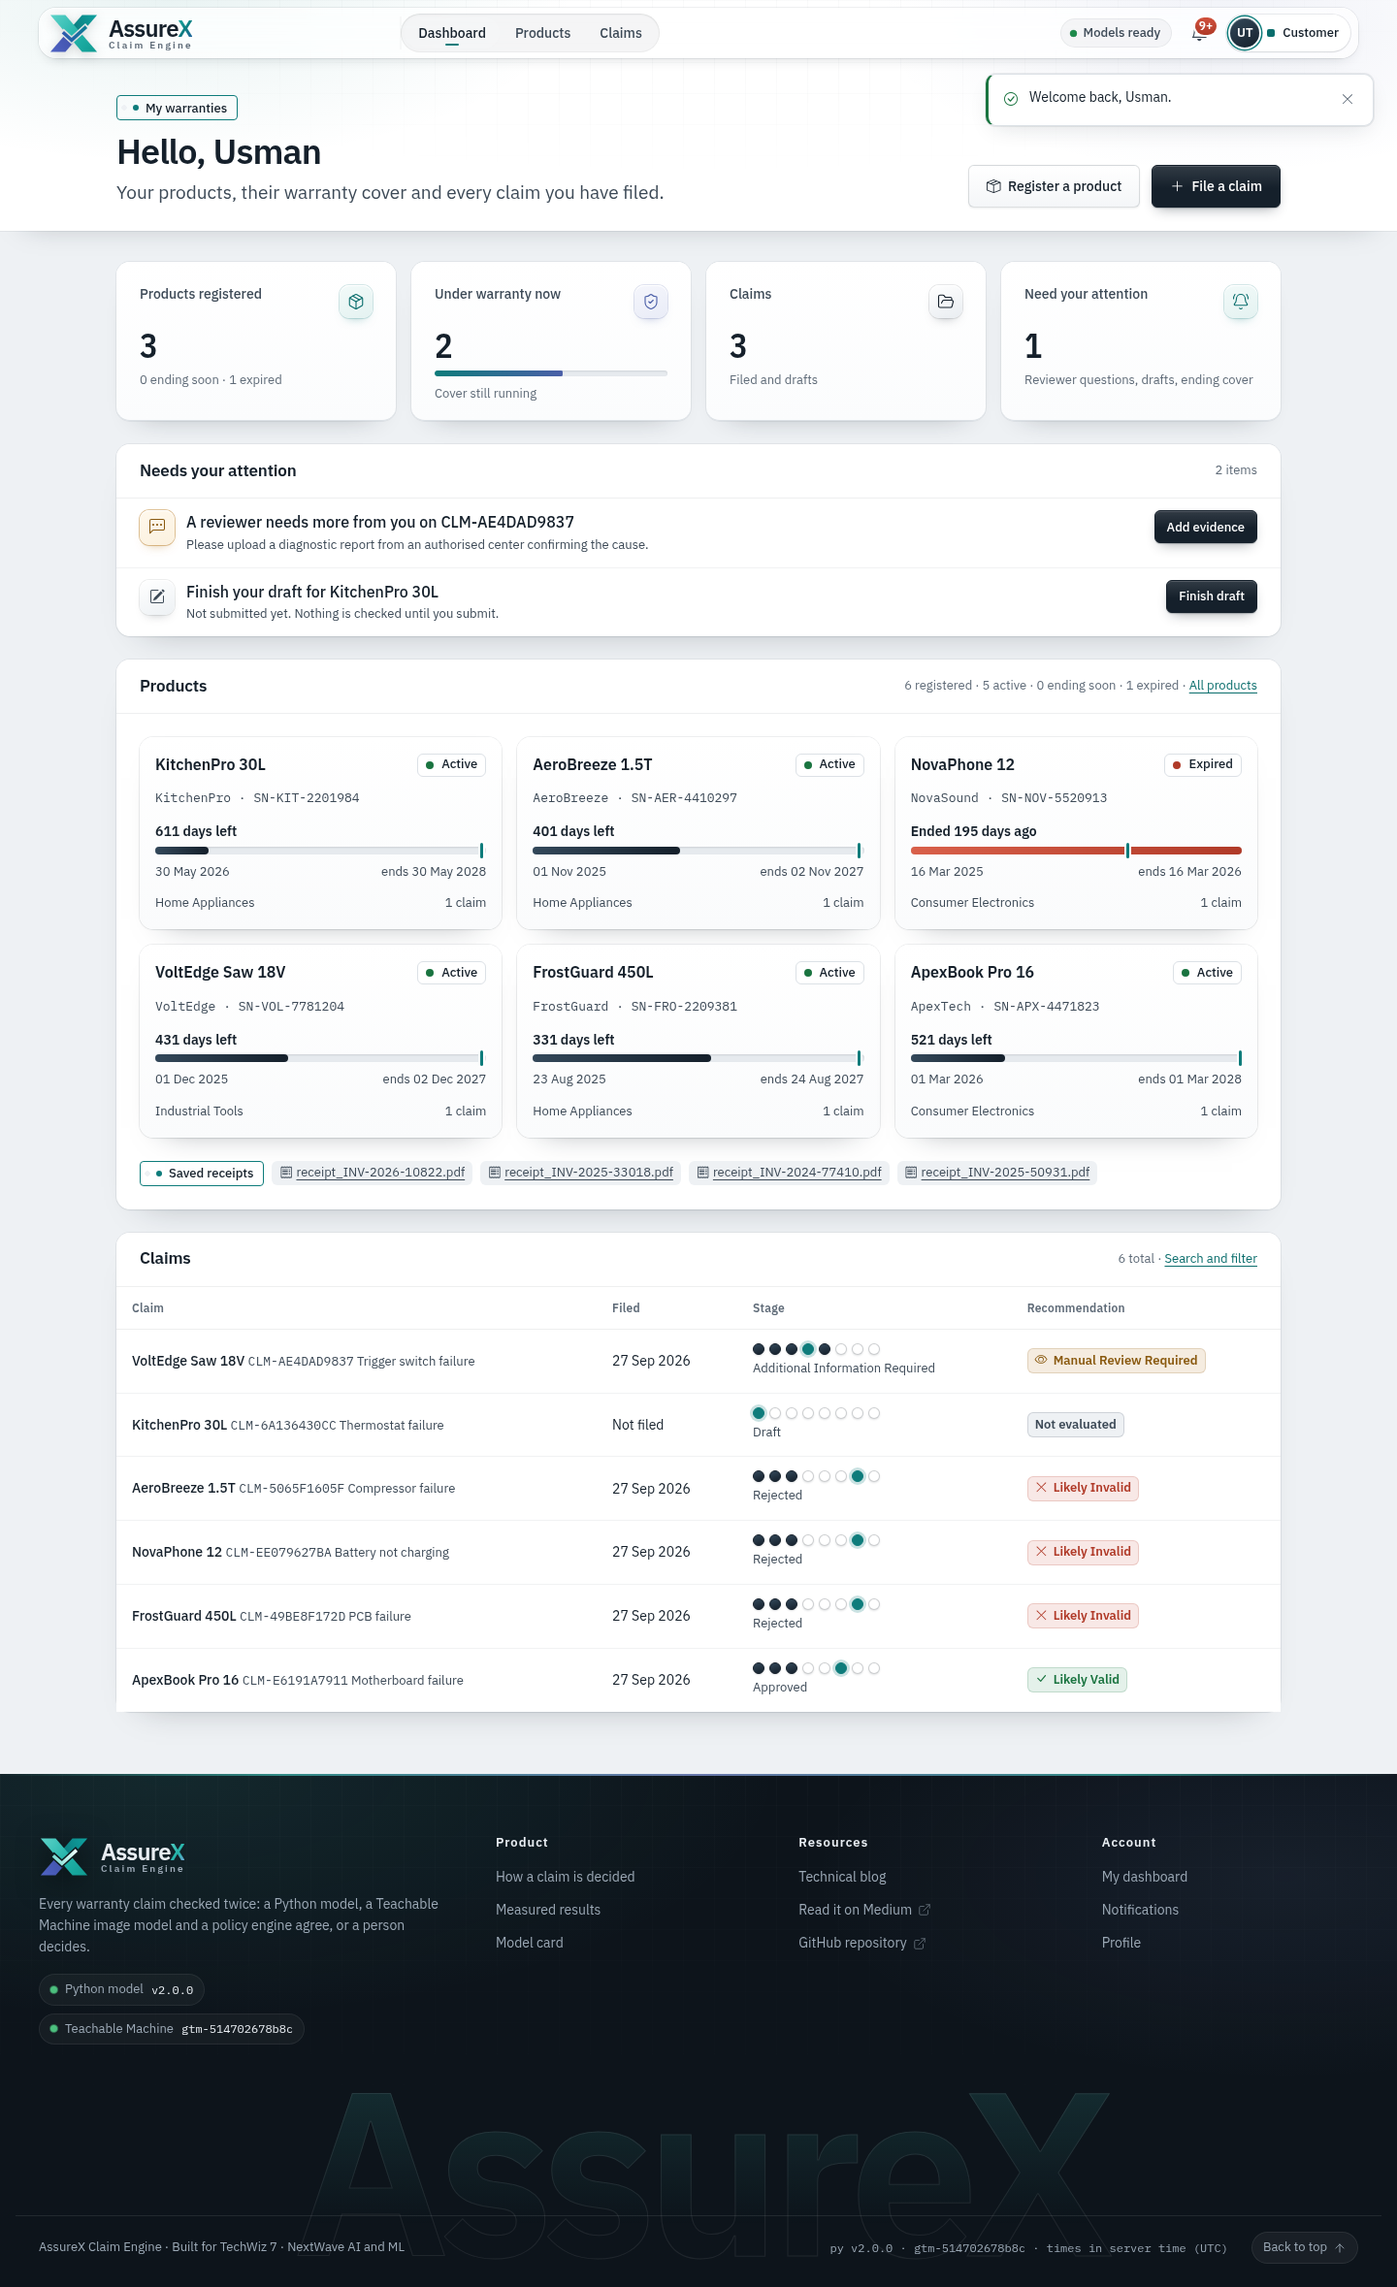
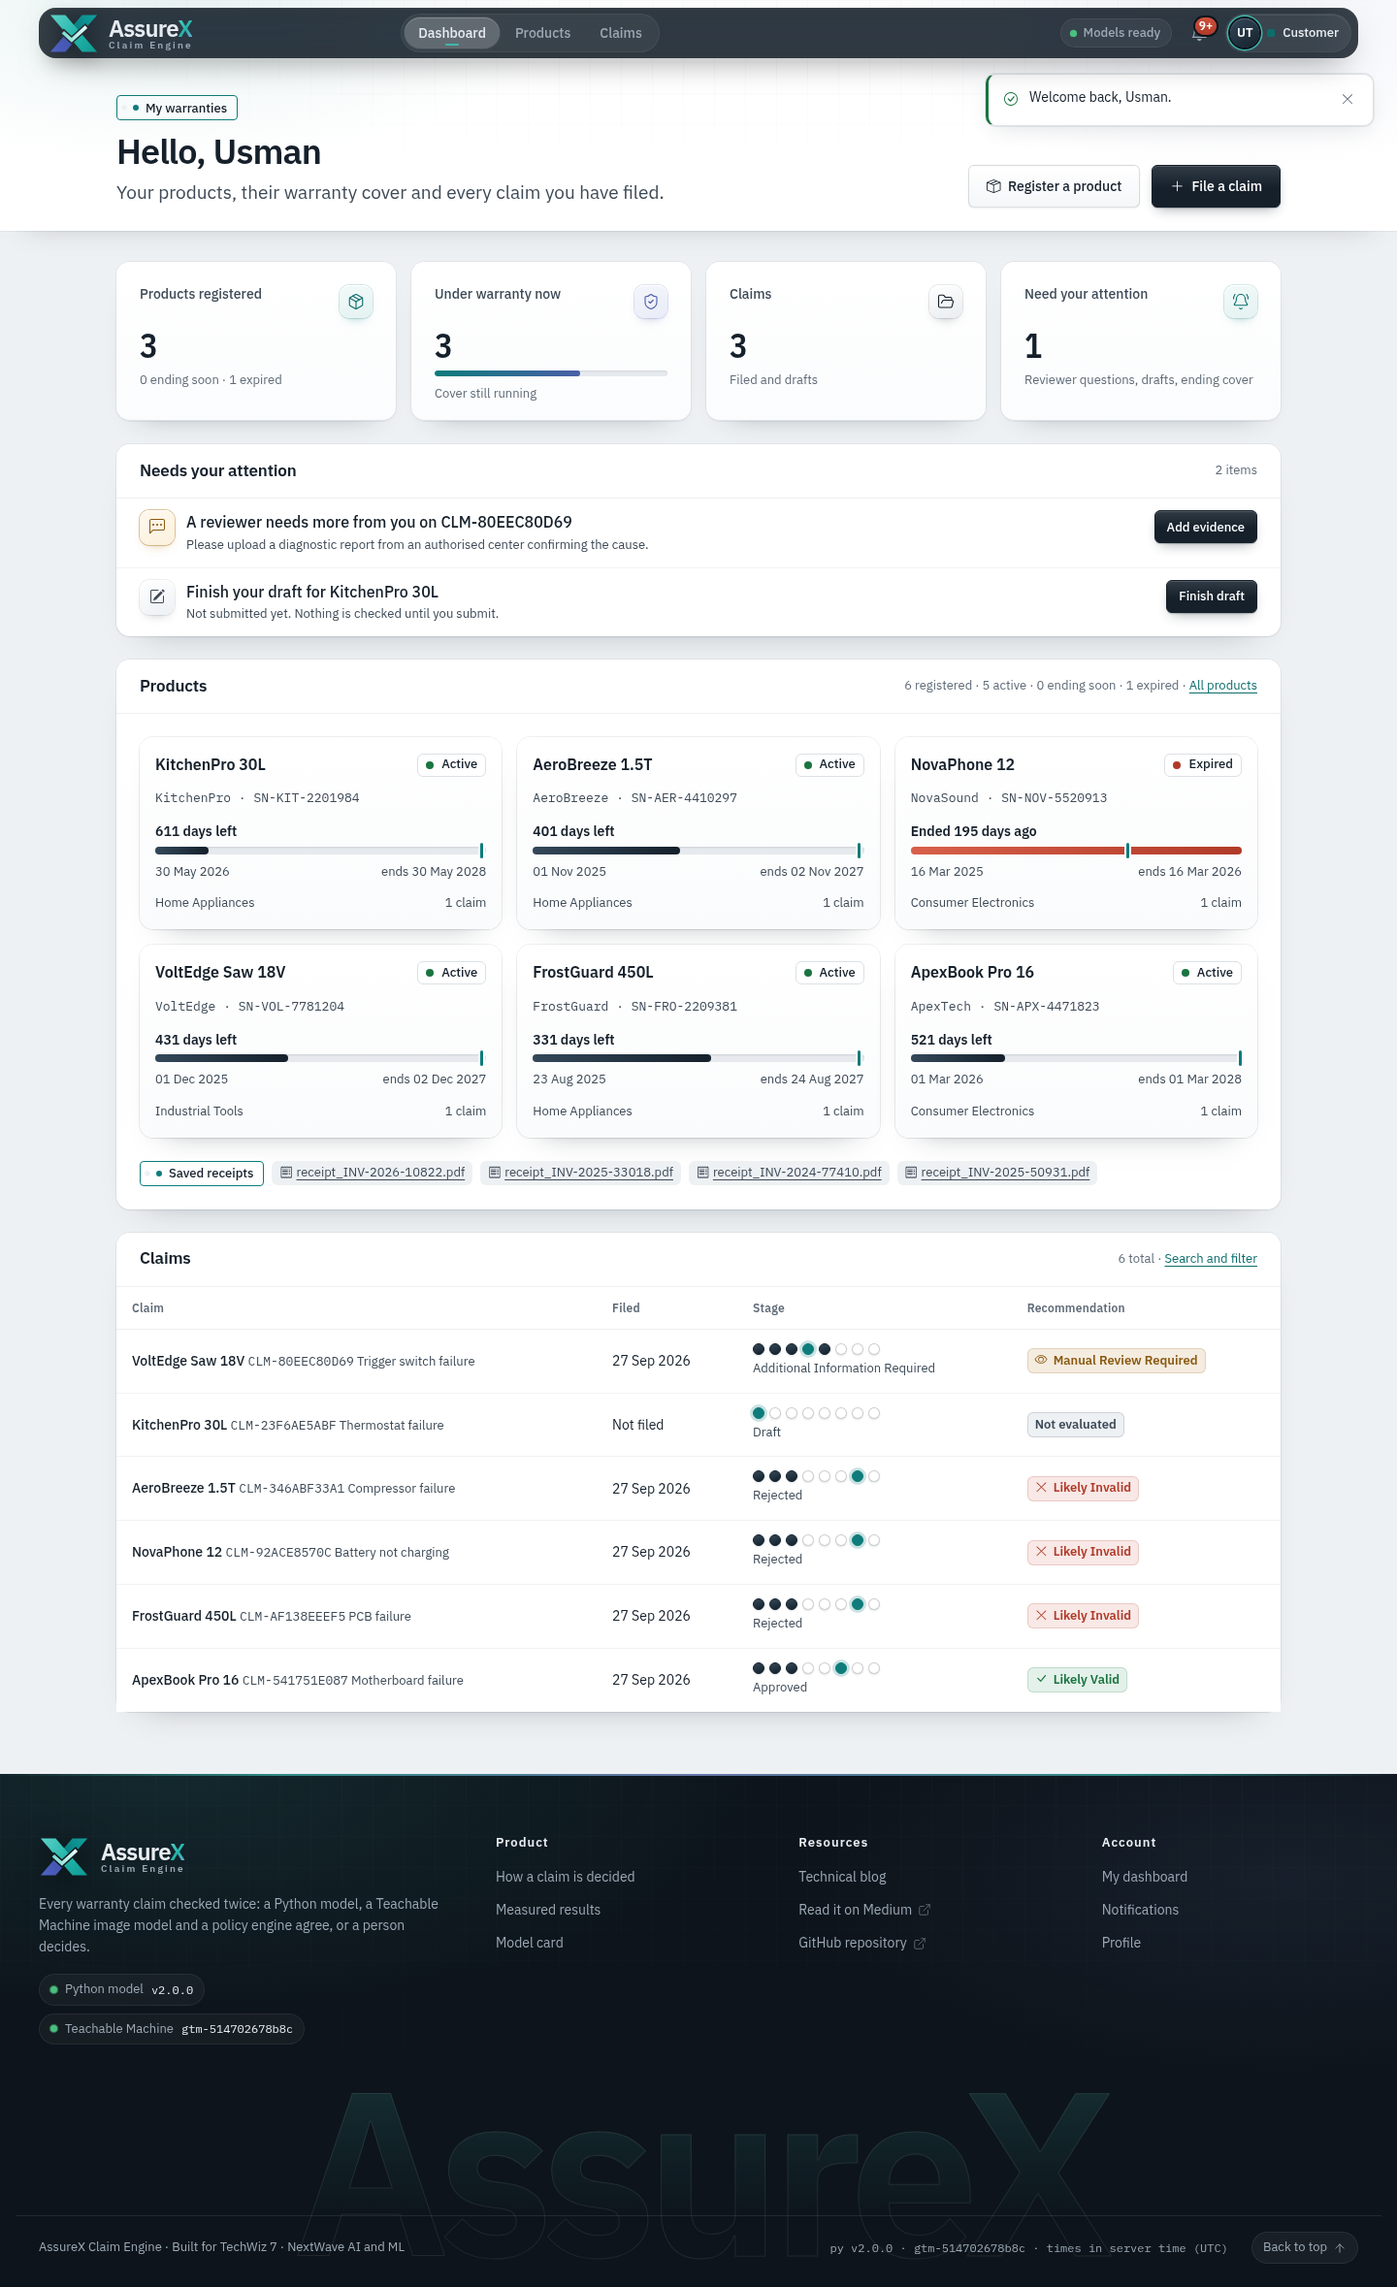
style: the navbar takes the opposite tone of whatever scrolls under it
At the very top of the landing page it stays a see-through dark glass
over the hero. From there on it reads the surface under the middle of
the island on each scroll frame: over a dark section (the hero, the
closing band, the footer, the model card header, the verdict
instrument) it turns into a near-solid light glass, and over a light
section it turns into a dark glass, cross-fading its colours. No section
has to be registered: dark sections are the ones built on .bench. The
same rule runs on every page, signed in or not. In the dark tone the
current page's pill is a lit glass chip and the role dot stays visible.

Changed region(s): [[0.0312, 0.0, 0.9688, 0.031], [0.3438, 0.2167, 0.4062, 0.2477]]

diff --git a/static/css/app.css b/static/css/app.css
@@ -856,14 +856,14 @@ details.panel-f > summary { cursor: pointer; font-weight: 600; font-size: var(--
 .nav-sentinel { position: absolute; top: 0; left: 0; width: 1px; height: 24px; pointer-events: none; }
 .nav-overlay .topbar { position: fixed; left: 0; right: 0; background: transparent; border-bottom-color: transparent;
   transition: background-color 200ms, border-color 200ms; }
-.nav-overlay .topbar:not(.scrolled) .brand { color: var(--on-bench); }
-.nav-overlay .topbar:not(.scrolled) .m-body { fill: var(--on-bench); }
-.nav-overlay .topbar:not(.scrolled) .m-line { stroke: var(--bench); }
-.nav-overlay .topbar:not(.scrolled) .m-dot { fill: var(--teal-mark); }
-.nav-overlay .topbar:not(.scrolled) .btn { background: var(--teal-bright); border-color: var(--teal-bright); color: var(--bench); }
-.nav-overlay .topbar:not(.scrolled) .btn.ghost { background: transparent; border-color: transparent; color: var(--on-bench); }
-.nav-overlay .topbar:not(.scrolled) .btn.ghost:hover { background: rgba(255, 255, 255, .06); }
-.nav-overlay .topbar:not(.scrolled) :focus-visible { box-shadow: var(--focus-bench); }
+.topbar.tone-dark .brand { color: var(--on-bench); }
+.topbar.tone-dark .m-body { fill: var(--on-bench); }
+.topbar.tone-dark .m-line { stroke: var(--bench); }
+.topbar.tone-dark .m-dot { fill: var(--teal-mark); }
+.topbar.tone-dark .btn { background: var(--teal-bright); border-color: var(--teal-bright); color: var(--bench); }
+.topbar.tone-dark .btn.ghost { background: transparent; border-color: transparent; color: var(--on-bench); }
+.topbar.tone-dark .btn.ghost:hover { background: rgba(255, 255, 255, .06); }
+.topbar.tone-dark :focus-visible { box-shadow: var(--focus-bench); }
 .nav-overlay .topbar.scrolled { background: var(--paper); border-bottom-color: var(--rule); }
 @media (prefers-reduced-motion: reduce) { .nav-overlay .topbar { transition: none; } }
 
@@ -928,12 +928,12 @@ details.panel-f > summary { cursor: pointer; font-weight: 600; font-size: var(--
 .menu-panel a, .menu-panel button.menu-item { border-radius: 8px; }
 
 /* landing: the bar floats over the bench, then turns to glass paper after 24px of scroll */
-.nav-overlay .topbar:not(.scrolled) { background: transparent; box-shadow: none; }
-.nav-overlay .topbar:not(.scrolled)::after { -webkit-backdrop-filter: none; backdrop-filter: none; }
-.nav-overlay .topbar:not(.scrolled)::before { background: linear-gradient(90deg, transparent, var(--teal-bright) 20%, var(--gtm-bright) 50%, var(--teal-bright) 80%, transparent); opacity: .8; }
-.nav-overlay .topbar:not(.scrolled) .brand-tile { background: linear-gradient(160deg, #22313E, #131D26);
+.topbar.tone-dark { background: transparent; box-shadow: none; }
+.topbar.tone-dark::after { -webkit-backdrop-filter: none; backdrop-filter: none; }
+.topbar.tone-dark::before { background: linear-gradient(90deg, transparent, var(--teal-bright) 20%, var(--gtm-bright) 50%, var(--teal-bright) 80%, transparent); opacity: .8; }
+.topbar.tone-dark .brand-tile { background: linear-gradient(160deg, #22313E, #131D26);
   box-shadow: inset 0 1px 0 rgba(255, 255, 255, .12), 0 0 0 1px rgba(255, 255, 255, .08), 0 8px 18px -8px rgba(0, 0, 0, .8); }
-.nav-overlay .topbar:not(.scrolled) .brand-name small { color: var(--on-bench-2); }
+.topbar.tone-dark .brand-name small { color: var(--on-bench-2); }
 .nav-overlay .topbar.scrolled { background: color-mix(in srgb, var(--paper) 80%, transparent);
   box-shadow: 0 1px 0 rgba(21, 32, 43, .08), 0 10px 30px -22px rgba(21, 32, 43, .45); }
 
@@ -958,7 +958,7 @@ details.panel-f > summary { cursor: pointer; font-weight: 600; font-size: var(--
   box-shadow: inset 0 1px 0 rgba(255, 255, 255, .08), 0 6px 16px -10px rgba(0, 0, 0, .8); }
 .bench .btn.ghost, .bench .btn.danger { background-image: none; box-shadow: none; }
 .bench .btn:focus-visible { box-shadow: var(--focus-bench); }
-.nav-overlay .topbar:not(.scrolled) .btn:not(.ghost) { background-image: linear-gradient(180deg, rgba(255, 255, 255, .28), rgba(255, 255, 255, 0) 60%);
+.topbar.tone-dark .btn:not(.ghost) { background-image: linear-gradient(180deg, rgba(255, 255, 255, .28), rgba(255, 255, 255, 0) 60%);
   box-shadow: inset 0 1px 0 rgba(255, 255, 255, .45), 0 8px 22px -8px color-mix(in srgb, var(--teal-bright) 70%, transparent); }
 @media (prefers-reduced-motion: reduce) { .btn:hover, .btn:active { transform: none; } .menu-panel:not([hidden]) { animation: none; } }
 
@@ -1031,15 +1031,15 @@ details.panel-f > summary { cursor: pointer; font-weight: 600; font-size: var(--
 .user-btn .initials { width: 30px; height: 30px; }
 
 /* landing: a dark glass island over the bench, turning to paper glass once the page scrolls */
-.nav-overlay .topbar, .nav-overlay .topbar:not(.scrolled), .nav-overlay .topbar.scrolled { background: transparent; box-shadow: none; }
-.nav-overlay .topbar:not(.scrolled) .wrap { background: rgba(21, 32, 42, .45);
+.nav-overlay .topbar, .topbar.tone-dark, .nav-overlay .topbar.scrolled { background: transparent; box-shadow: none; }
+.topbar.tone-dark .wrap { background: rgba(21, 32, 42, .45);
   box-shadow: inset 0 1px 0 rgba(255, 255, 255, .07), 0 0 0 1px rgba(255, 255, 255, .08), 0 20px 40px -24px rgba(0, 0, 0, .8); }
-.nav-overlay .topbar:not(.scrolled) .pnav { background: rgba(255, 255, 255, .05); box-shadow: inset 0 0 0 1px rgba(255, 255, 255, .06); }
-.nav-overlay .topbar:not(.scrolled) .pnav a { color: var(--on-bench-2); }
-.nav-overlay .topbar:not(.scrolled) .pnav a:hover { color: var(--on-bench); }
-.nav-overlay .topbar:not(.scrolled) .nav-glide { background: rgba(255, 255, 255, .1); box-shadow: inset 0 1px 0 rgba(255, 255, 255, .08); }
-.nav-overlay .topbar:not(.scrolled) .live-chip { color: var(--on-bench-2); background: rgba(255, 255, 255, .05); box-shadow: inset 0 0 0 1px rgba(255, 255, 255, .07); }
-.nav-overlay .topbar:not(.scrolled) .live-chip i, .nav-overlay .topbar:not(.scrolled) .live-chip i::after { background: var(--valid-bright); }
+.topbar.tone-dark .pnav { background: rgba(255, 255, 255, .05); box-shadow: inset 0 0 0 1px rgba(255, 255, 255, .06); }
+.topbar.tone-dark .pnav a { color: var(--on-bench-2); }
+.topbar.tone-dark .pnav a:hover { color: var(--on-bench); }
+.topbar.tone-dark .nav-glide { background: rgba(255, 255, 255, .1); box-shadow: inset 0 1px 0 rgba(255, 255, 255, .08); }
+.topbar.tone-dark .live-chip { color: var(--on-bench-2); background: rgba(255, 255, 255, .05); box-shadow: inset 0 0 0 1px rgba(255, 255, 255, .07); }
+.topbar.tone-dark .live-chip i, .topbar.tone-dark .live-chip i::after { background: var(--valid-bright); }
 
 @media (max-width: 991px) {
   .topbar { padding: 6px var(--s3) 0; }
@@ -1343,17 +1343,17 @@ a.kpi:focus-visible { box-shadow: var(--focus); }
 
 /* signed-in on the landing page: the dark island carries the role links, bell and account button */
 @media (min-width: 992px) {
-  .nav-overlay .topbar:not(.scrolled) .nav { background: rgba(255, 255, 255, .05); box-shadow: inset 0 0 0 1px rgba(255, 255, 255, .06); }
-  .nav-overlay .topbar:not(.scrolled) .nav a { color: var(--on-bench-2); }
-  .nav-overlay .topbar:not(.scrolled) .nav a:hover { color: var(--on-bench); }
+  .topbar.tone-dark .nav { background: rgba(255, 255, 255, .05); box-shadow: inset 0 0 0 1px rgba(255, 255, 255, .06); }
+  .topbar.tone-dark .nav a { color: var(--on-bench-2); }
+  .topbar.tone-dark .nav a:hover { color: var(--on-bench); }
 }
-.nav-overlay .topbar:not(.scrolled) .icon-btn { color: var(--on-bench-2); }
-.nav-overlay .topbar:not(.scrolled) .icon-btn:hover { color: var(--on-bench); background: rgba(255, 255, 255, .08); }
-.nav-overlay .topbar:not(.scrolled) .count-pip { box-shadow: 0 0 0 2px var(--bench); }
-.nav-overlay .topbar:not(.scrolled) .user-btn { background: rgba(255, 255, 255, .06); color: var(--on-bench);
+.topbar.tone-dark .icon-btn { color: var(--on-bench-2); }
+.topbar.tone-dark .icon-btn:hover { color: var(--on-bench); background: rgba(255, 255, 255, .08); }
+.topbar.tone-dark .count-pip { box-shadow: 0 0 0 2px var(--bench); }
+.topbar.tone-dark .user-btn { background: rgba(255, 255, 255, .06); color: var(--on-bench);
   box-shadow: inset 0 1px 0 rgba(255, 255, 255, .08), 0 0 0 1px rgba(255, 255, 255, .1); }
-.nav-overlay .topbar:not(.scrolled) .user-btn .initials { box-shadow: inset 0 1px 0 rgba(255, 255, 255, .18), 0 0 0 2px var(--bench), 0 0 0 3.5px var(--teal-bright); }
-.nav-overlay .topbar:not(.scrolled) .user-btn .role { color: var(--on-bench); }
+.topbar.tone-dark .user-btn .initials { box-shadow: inset 0 1px 0 rgba(255, 255, 255, .18), 0 0 0 2px var(--bench), 0 0 0 3.5px var(--teal-bright); }
+.topbar.tone-dark .user-btn .role { color: var(--on-bench); }
 
 /* dropdown menus never run off the screen: they cap at the viewport, scroll inside with the wheel (the page
    behind stays put), and show a thin see-through scrollbar only while the pointer is over them */
@@ -1382,11 +1382,11 @@ a.kpi:focus-visible { box-shadow: var(--focus); }
 .brand-word { font: 600 1.5rem/1 var(--font); letter-spacing: -0.035em; color: var(--ink); }
 .brand-x { background: linear-gradient(135deg, #22B3A9 10%, #0B7C80 55%, #2F5BAE); -webkit-background-clip: text; background-clip: text; color: transparent; }
 .brand-name small { font-size: .625rem; font-weight: 600; letter-spacing: .22em; text-transform: none; color: var(--steel); }
-.nav-overlay .topbar:not(.scrolled) .brand-mark.on-light { display: none; }
-.nav-overlay .topbar:not(.scrolled) .brand-mark.on-dark { display: block; filter: drop-shadow(0 4px 10px rgba(0, 0, 0, .45)); }
-.nav-overlay .topbar:not(.scrolled) .brand-word { color: var(--on-bench); }
-.nav-overlay .topbar:not(.scrolled) .brand-x { background-image: linear-gradient(135deg, #5DD3C9 10%, #22B3A9 55%, #8EA0E6); }
-.nav-overlay .topbar:not(.scrolled) .brand-name small { color: var(--on-bench-2); }
+.topbar.tone-dark .brand-mark.on-light { display: none; }
+.topbar.tone-dark .brand-mark.on-dark { display: block; filter: drop-shadow(0 4px 10px rgba(0, 0, 0, .45)); }
+.topbar.tone-dark .brand-word { color: var(--on-bench); }
+.topbar.tone-dark .brand-x { background-image: linear-gradient(135deg, #5DD3C9 10%, #22B3A9 55%, #8EA0E6); }
+.topbar.tone-dark .brand-name small { color: var(--on-bench-2); }
 @media (max-width: 991px) { .brand-mark { width: 40px; height: 33px; } .brand-word { font-size: 1.1875rem; } }
 
 /* ================================================================== footer on the bench
@@ -1452,3 +1452,24 @@ a.kpi:focus-visible { box-shadow: var(--focus); }
   .footer .wrap.footer-bottom { grid-template-columns: 1fr; justify-items: start; }
 }
 @media (max-width: 560px) { .footer .wrap.footer-top { grid-template-columns: repeat(2, minmax(0, 1fr)); } }
+
+/* adaptive navbar tones: dark glass over light pages, see-through dark glass at the top of the landing hero,
+   light glass over dark sections; colours cross-fade as the surface underneath changes */
+.topbar.tone-dark:not(.is-top) .wrap { background: rgba(13, 20, 27, .86);
+  box-shadow: inset 0 1px 0 rgba(255, 255, 255, .08), 0 0 0 1px rgba(255, 255, 255, .06), 0 14px 34px -16px rgba(0, 0, 0, .55); }
+.topbar.tone-dark:not(.is-top) .wrap::after { background: linear-gradient(90deg, var(--teal-bright), var(--gtm-bright)); }
+.topbar .brand-word, .topbar .brand-name small, .topbar .nav a, .topbar .pnav a, .topbar .icon-btn, .topbar .live-chip, .topbar .user-btn {
+  transition: color 250ms var(--ease), background-color 250ms var(--ease), box-shadow 250ms var(--ease); }
+@media (prefers-reduced-motion: reduce) {
+  .topbar .brand-word, .topbar .brand-name small, .topbar .nav a, .topbar .pnav a, .topbar .icon-btn, .topbar .live-chip, .topbar .user-btn { transition: none; }
+}
+/* light tone is a near-solid paper glass (a see-through light bar over a dark section turns muddy) */
+.topbar:not(.tone-dark) .wrap { background: rgba(255, 255, 255, .94); }
+/* dark tone: the current page's pill is a lit glass chip, not a white one */
+@media (min-width: 992px) {
+  .topbar.tone-dark .pnav a[aria-current="page"], .topbar.tone-dark .nav a[aria-current="page"] {
+    color: var(--on-bench); background: rgba(255, 255, 255, .12);
+    box-shadow: inset 0 1px 0 rgba(255, 255, 255, .12), 0 0 0 1px rgba(255, 255, 255, .08); }
+  .topbar.tone-dark .nav a[aria-current="page"]::after { background: var(--teal-bright); }
+}
+.topbar.tone-dark .role--administrator::before, .topbar.tone-dark .role--claim_reviewer::before { background: var(--on-bench); }

diff --git a/static/js/app.js b/static/js/app.js
@@ -408,10 +408,34 @@
   });
 })();
 
-/* Landing: the navbar is transparent over the bench until the page scrolls 24px (observer, not a scroll listener). */
+/* Adaptive navbar: it always takes the opposite tone of the surface scrolling under it. Over a dark (bench)
+   section it turns light; over a light section it turns dark; at the very top of the landing page it is a
+   see-through dark glass over the hero. The surface is read at the island's centre on scroll (one check per
+   frame), so no section needs to be registered anywhere: dark sections are the ones built on .bench. */
 (() => {
-  const bar = document.querySelector(".nav-overlay .topbar");
-  const sentinel = document.querySelector("[data-nav-sentinel]");
-  if (!bar || !sentinel || !("IntersectionObserver" in window)) { if (bar) bar.classList.add("scrolled"); return; }
-  new IntersectionObserver(([e]) => bar.classList.toggle("scrolled", !e.isIntersecting)).observe(sentinel);
+  const bar = document.querySelector(".topbar");
+  if (!bar) return;
+  const overlay = document.body.classList.contains("nav-overlay");
+  const island = bar.querySelector(".wrap") || bar;
+  let queued = false;
+  const surfaceIsDark = () => {
+    const r = island.getBoundingClientRect();
+    const y = Math.round(r.top + r.height / 2);
+    for (const x of [Math.round(r.left + r.width / 2), Math.round(r.left + 12), Math.round(r.right - 12)]) {   // the middle decides
+      const under = document.elementsFromPoint(x, y).find((el) => !bar.contains(el) && el !== document.documentElement);
+      if (under) return !!under.closest(".bench, .footer");
+    }
+    return false;                                     // nothing under it yet: the page background is light
+  };
+  const update = () => {
+    queued = false;
+    const top = overlay && window.scrollY < 24;
+    bar.classList.toggle("is-top", top);
+    bar.classList.toggle("scrolled", !top);
+    bar.classList.toggle("tone-dark", top || !surfaceIsDark());
+  };
+  const queue = () => { if (!queued) { queued = true; requestAnimationFrame(update); } };
+  window.addEventListener("scroll", queue, { passive: true });
+  window.addEventListener("resize", queue);
+  update();
 })();
